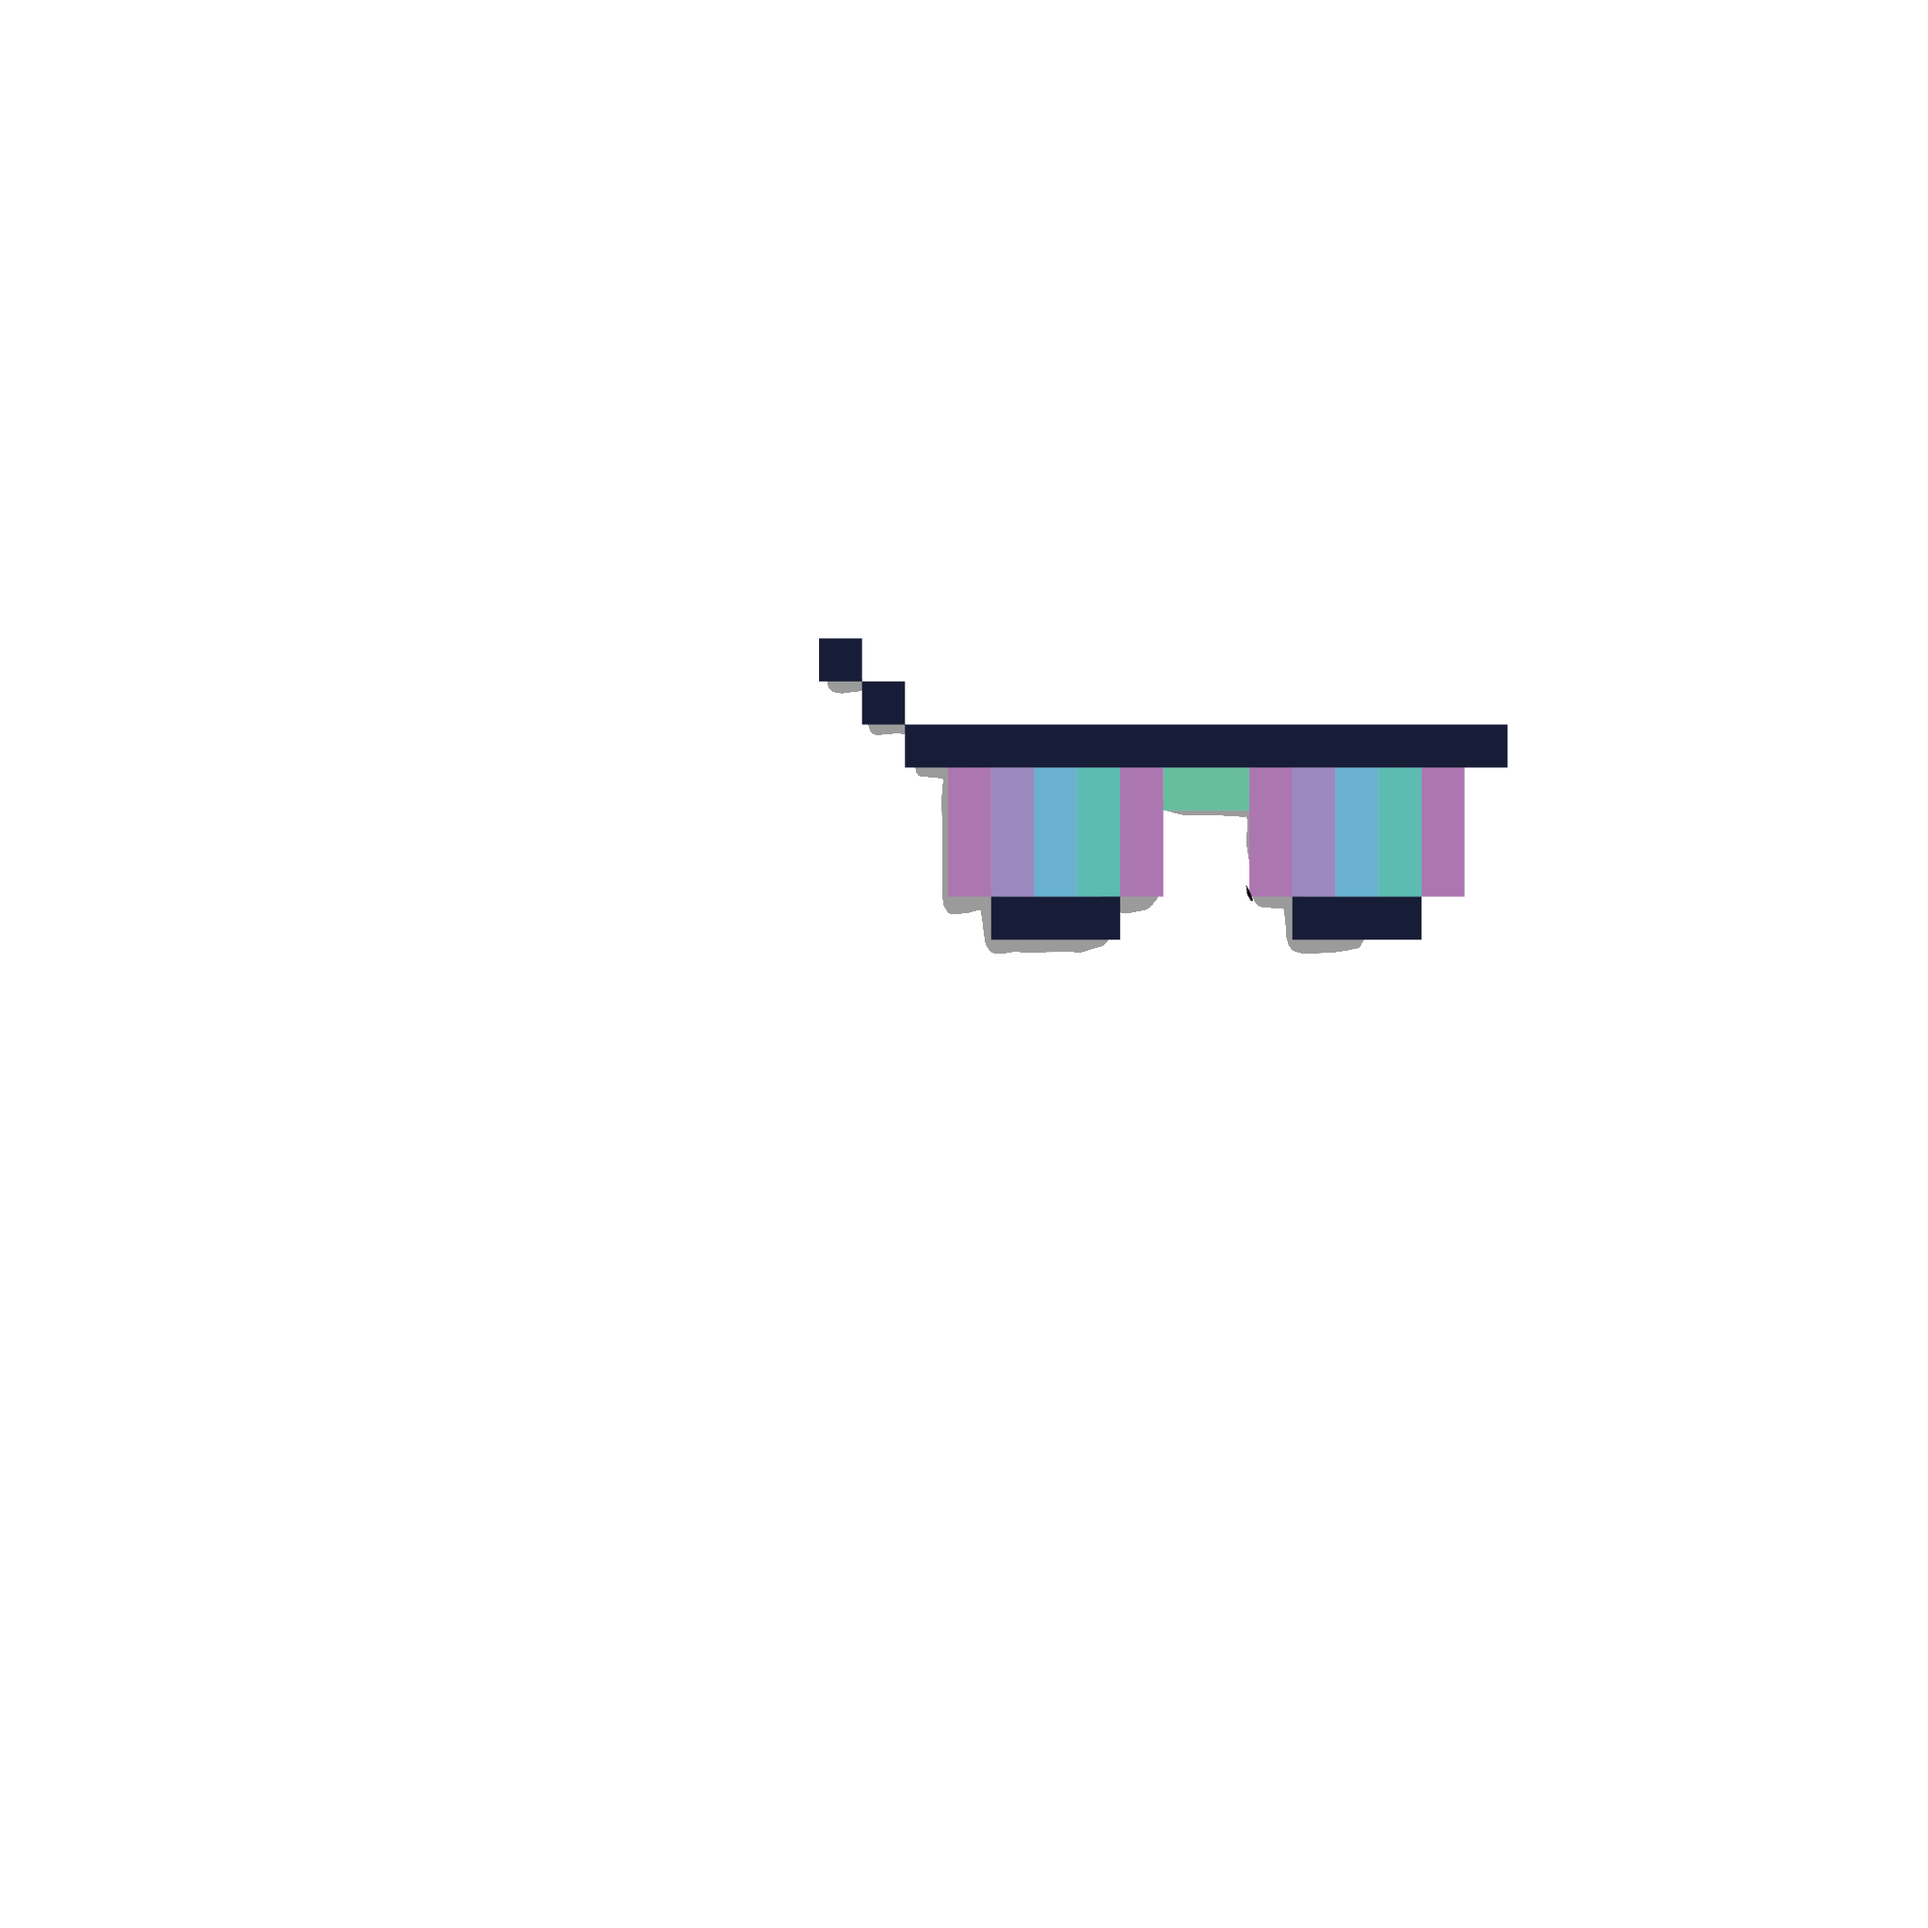
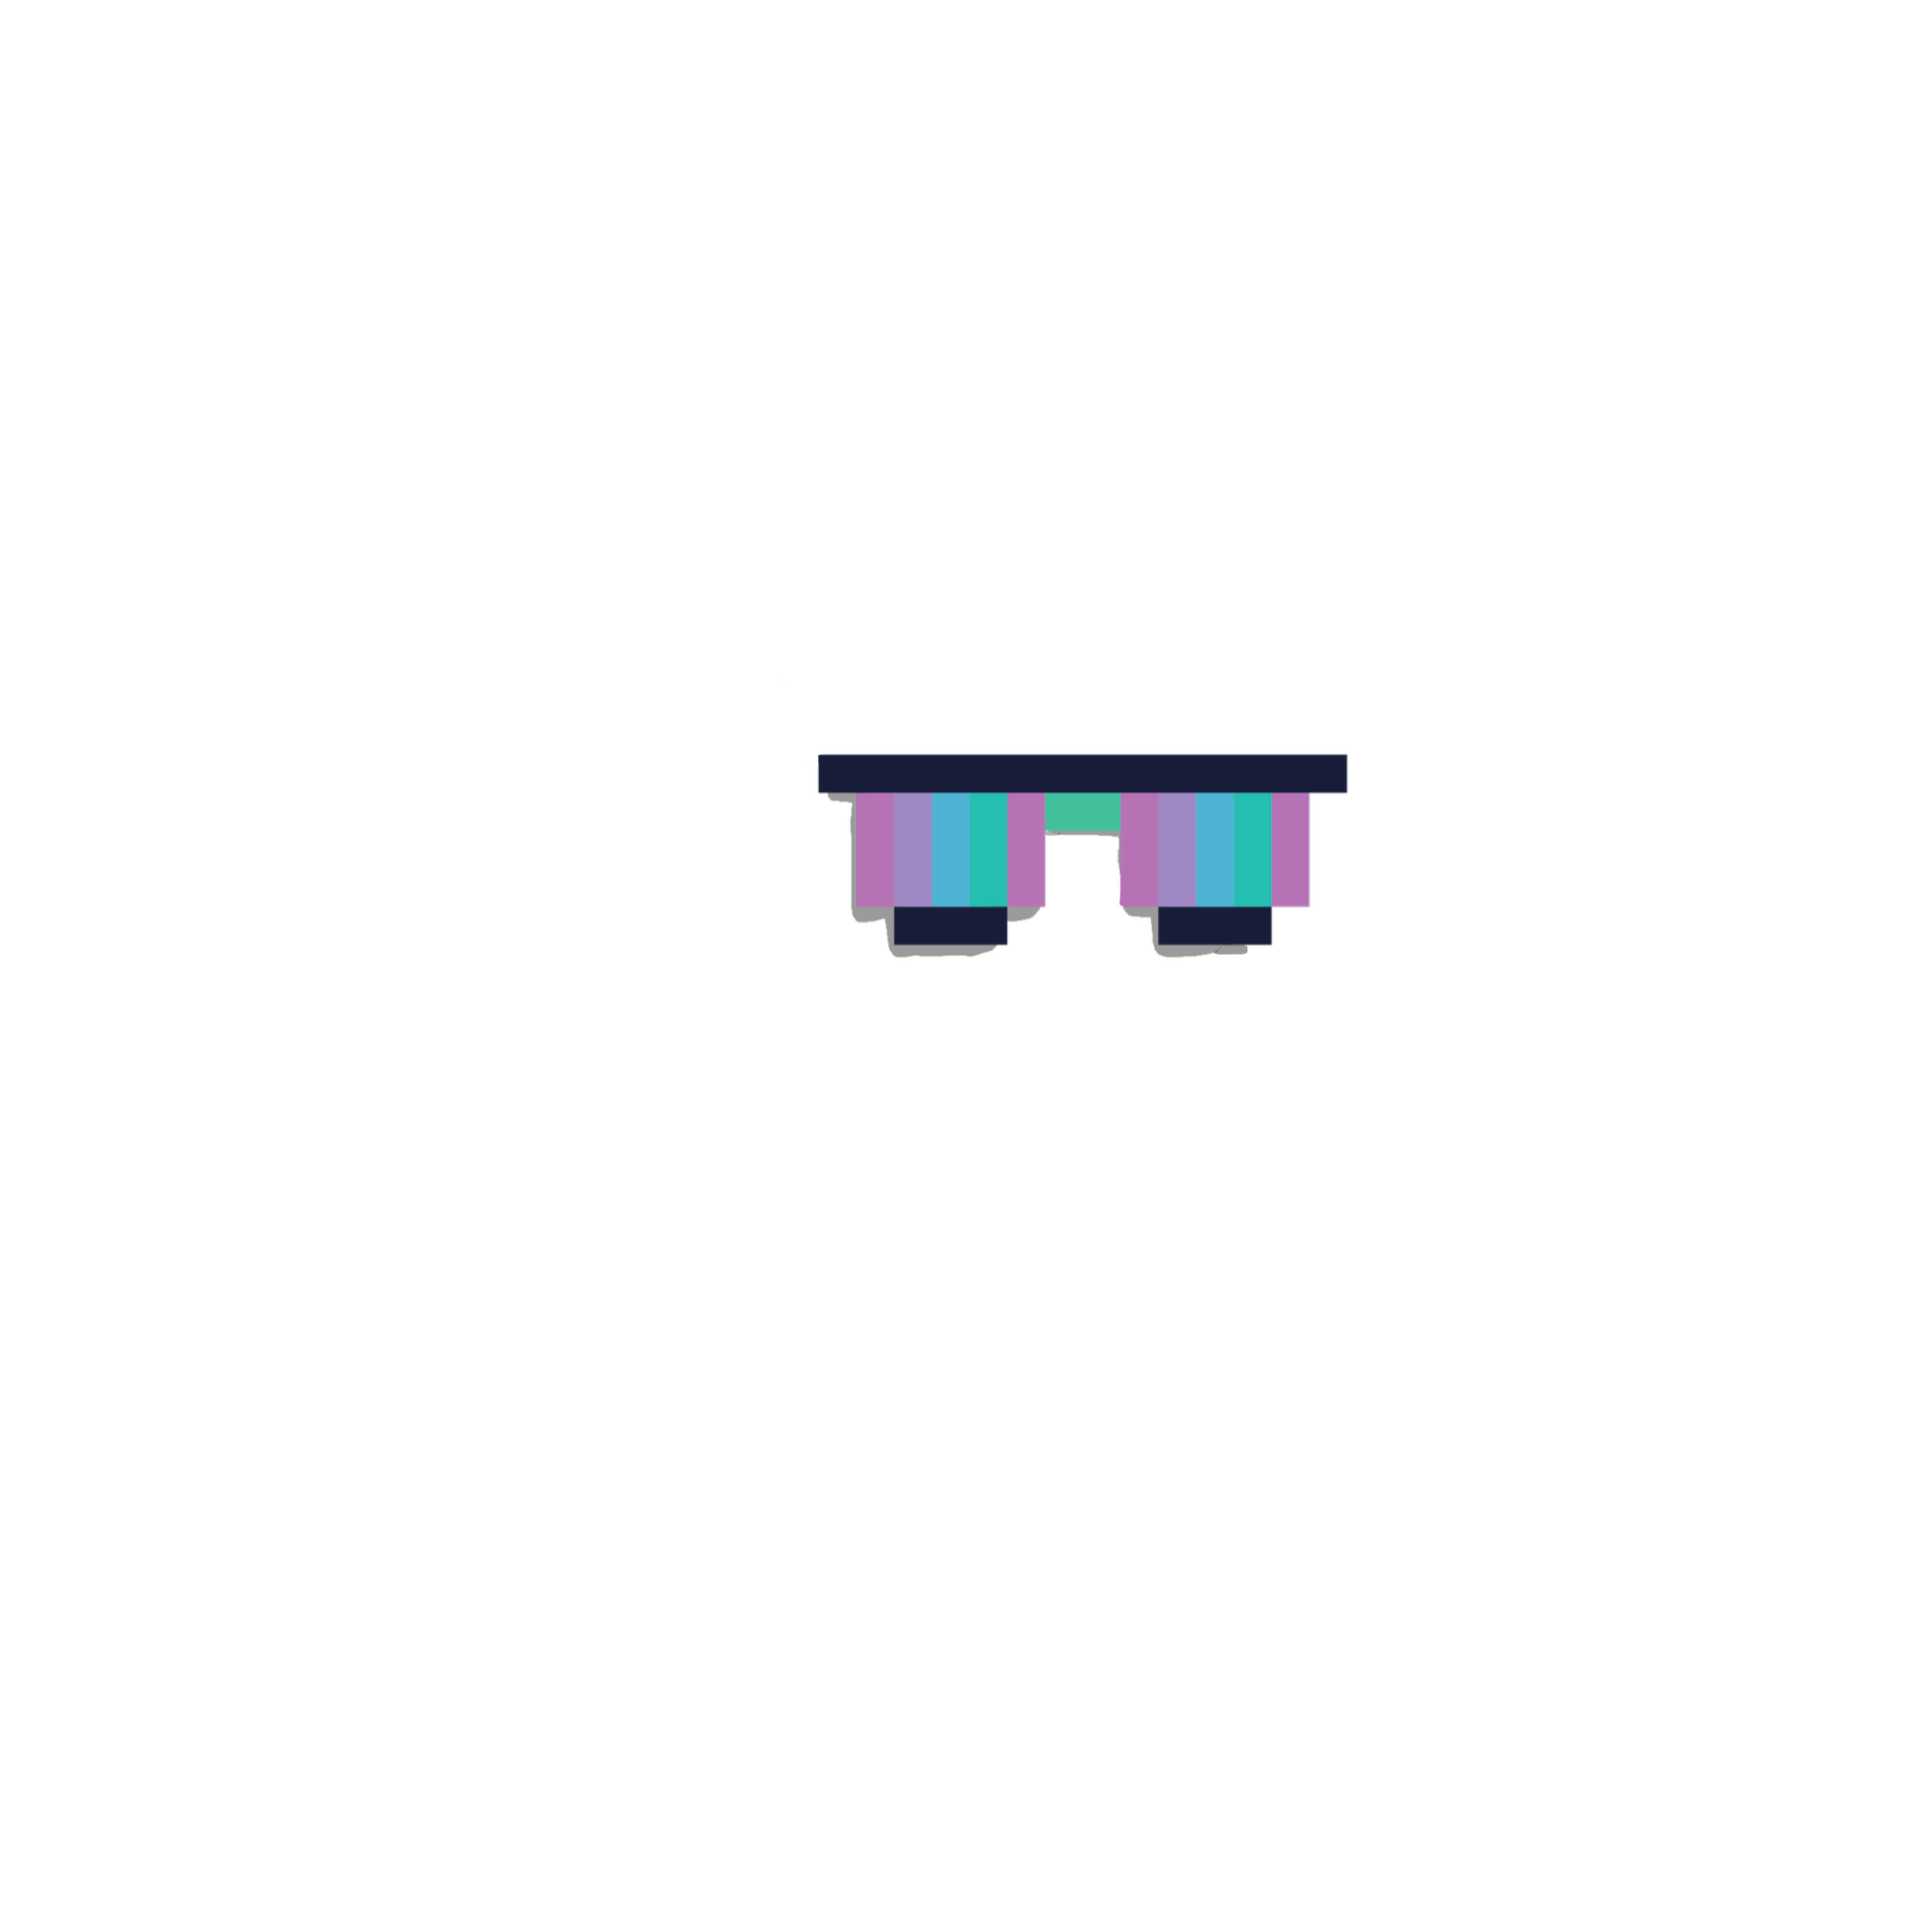
Fixed Viking Shadows and Updated Rarities

Changed region(s): [[0.4062, 0.3125, 0.7812, 0.5]]

diff --git a/includes/nft.py b/includes/nft.py
@@ -87,15 +87,19 @@ class Nft:
                     frontLayer = Image.open(os.path.dirname(__file__) + '/../input/assets/' + subdirectory + '7-Head/4-Fro B.png')
                     frontLayer = frontLayer.convert('RGBA')
                     baseLayer = Image.alpha_composite(baseLayer, frontLayer)
-                
-                # Insert Shadows
+
                 frontLayer = Image.open(os.path.dirname(__file__) + '/../input/assets/' + subdirectory + '2-Clothing/' + shadowPath)
                 frontLayer = frontLayer.convert('RGBA')
                 baseLayer = Image.alpha_composite(baseLayer, frontLayer)
-         
+                
             frontLayer = Image.open(os.path.dirname(__file__) + '/../input/assets/' + subdirectory + self.layers[i] + '/' + self.dnaPaths[i])
             frontLayer = frontLayer.convert('RGBA')
             baseLayer = Image.alpha_composite(baseLayer, frontLayer)
+
+            if need_reorder and i == 1:
+                frontLayer = Image.open(os.path.dirname(__file__) + '/../input/assets/' + subdirectory + '2-Clothing/' + shadowPath)
+                frontLayer = frontLayer.convert('RGBA')
+                baseLayer = Image.alpha_composite(baseLayer, frontLayer)
 
         # Applies for Einstein, Viking, Fro
         if need_reorder:
